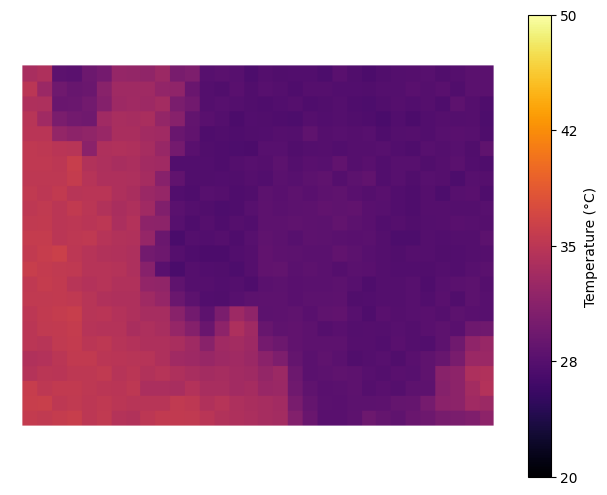
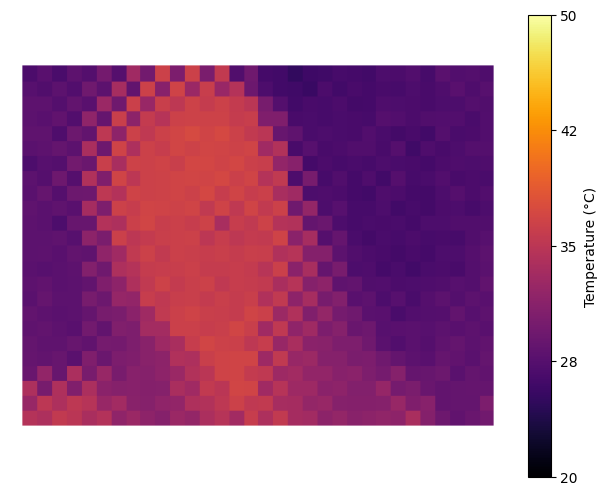
temp distribution threshold input

diff --git a/MainWindow.py b/MainWindow.py
@@ -215,6 +215,7 @@ class Ui_MainWindow(object):
         self.temp_sections = []
         self.temp_section_alert = False
         self.cold_blocks = []
+        self.temp_distribution_threshold = 3.0
 
         self.receive_serial_thread = receiveSerialThread
         self.receive_serial_thread.start()
@@ -366,13 +367,13 @@ class Ui_MainWindow(object):
                         self.alert_open = True
                         self.alert_window = CalibrationAlertWindow.Ui_AlertWindow(self, "temp", self.temp_calibration_range, max_temp)
                         
-                    elif (float(self.df["Distance"].iloc[-1]) < self.distance_calibration_range[0] or 
-                        float(self.df["Distance"].iloc[-1]) > self.distance_calibration_range[1]):
+                    elif ((float(self.df["Distance"].iloc[-1]) < self.distance_calibration_range[0] or 
+                        float(self.df["Distance"].iloc[-1]) > self.distance_calibration_range[1]) and self.temp_sections == []):
                         self.alert_open = True
                         self.alert_window = CalibrationAlertWindow.Ui_AlertWindow(self, "distance", self.distance_calibration_range, float(self.df["Distance"].iloc[-1]))
 
                     elif (self.temp_sections != [] and self.temp_section_alert == False):
-                        self.cold_blocks = self.find_cold_spots_in_grid(self.df["Temp"].iloc[-1], self.temp_sections)
+                        self.cold_blocks = self.find_cold_spots_in_grid(self.df["Temp"].iloc[-1], self.temp_sections, self.temp_distribution_threshold)
                         
             self.is_calibration_check_running = False
 
@@ -448,7 +449,7 @@ class Ui_MainWindow(object):
 
         return alert
     
-    def find_cold_spots_in_grid(self, temp_array, selected_blocks, threshold = 5.0):
+    def find_cold_spots_in_grid(self, temp_array, selected_blocks, threshold = 3.0):
     
         # Finds significantly colder blocks in a selected subset of an 8x8 grid
         # over a 32x24 temperature array.
@@ -591,7 +592,6 @@ class Ui_MainWindow(object):
 
     def setTempSections(self, sections: list):
         self.temp_sections = sections
-        print(self.temp_sections)
 
     def get_cold_blocks(self):
         return self.cold_blocks
@@ -605,6 +605,13 @@ class Ui_MainWindow(object):
     def clearTempSectionsAlert(self):
         self.temp_section_alert = False
         self.temp_menu_button.setStyleSheet("background-color: white; color: black;")
+
+    def getTempDistributionThreshold(self):
+        return self.temp_distribution_threshold
+    
+    def setTempDistributionThreshold(self, threshold):
+        self.temp_distribution_threshold = threshold
+        print(self.temp_distribution_threshold)
 
     def __init__(self, receiveSerialThread, arduino_port):
         self.app = QtWidgets.QApplication.instance()

diff --git a/TempDialog.py b/TempDialog.py
@@ -64,14 +64,26 @@ class Ui_TempDetails(object):
         self.cutoff_input_button.clicked.connect(self.new_cutoff_value)
 
         self.open_selection_window_button = QtWidgets.QPushButton(TempDetails)
-        self.open_selection_window_button.setGeometry(QtCore.QRect(150, 510, 275, 50))
+        self.open_selection_window_button.setGeometry(QtCore.QRect(150, 490, 275, 50))
         self.open_selection_window_button.setObjectName("open_selection_button")
         self.open_selection_window_button.clicked.connect(self.open_selection_window)
 
         self.see_temp_section_alert_button = QtWidgets.QPushButton(TempDetails)
-        self.see_temp_section_alert_button.setGeometry(QtCore.QRect(150, 580, 275, 50))
+        self.see_temp_section_alert_button.setGeometry(QtCore.QRect(150, 560, 275, 50))
         self.see_temp_section_alert_button.setObjectName("see_temp_section_alert_button")
         self.see_temp_section_alert_button.clicked.connect(self.open_temp_section_alert_window)
+
+        self.temp_distribution_input = QtWidgets.QLineEdit(TempDetails)
+        self.temp_distribution_input.setValidator(QtGui.QDoubleValidator(0.0,99.99,2))
+        self.temp_distribution_input.setText(str(self.main_window.getTempDistributionThreshold()))
+        self.temp_distribution_input.setGeometry(QtCore.QRect(120, 630, 80, 50))
+        self.temp_distribution_input.setObjectName("temp_distribution_input")
+        self.temp_distribution_input.setValidator(QtGui.QDoubleValidator(0.0,10.0,1))
+
+        self.temp_distribution_input_button = QtWidgets.QPushButton(TempDetails)
+        self.temp_distribution_input_button.setGeometry(QtCore.QRect(210, 630, 230, 50))
+        self.temp_distribution_input_button.setObjectName("temp_distribution_input_button")
+        self.temp_distribution_input_button.clicked.connect(self.new_temp_distribution_value)
 
         self.tableView = QtWidgets.QTableWidget(TempDetails)
         self.tableView.setGeometry(QtCore.QRect(610, 360, 410, 340))
@@ -113,7 +125,7 @@ class Ui_TempDetails(object):
         self.cutoff_input.setText(_translate("TempDetails", "0"))
         self.open_selection_window_button.setText(_translate("TempDetails", "Edit Focused Section"))
         self.see_temp_section_alert_button.setText(_translate("TempDetails", "Temp Distribution Alert Details"))
-
+        self.temp_distribution_input_button.setText(_translate("TempDetails", "Change Distribution Alert Threshold"))
 
     def closeWindow(self):
         self.TempDetails.hide()
@@ -170,6 +182,9 @@ class Ui_TempDetails(object):
 
     def new_cutoff_value(self):
         self.main_window.setTempCutoffValue(self.cutoff_input.text())
+
+    def new_temp_distribution_value(self):
+        self.main_window.setTempDistributionThreshold(self.temp_distribution_input.text())
     
 
 if __name__ == "__main__":
